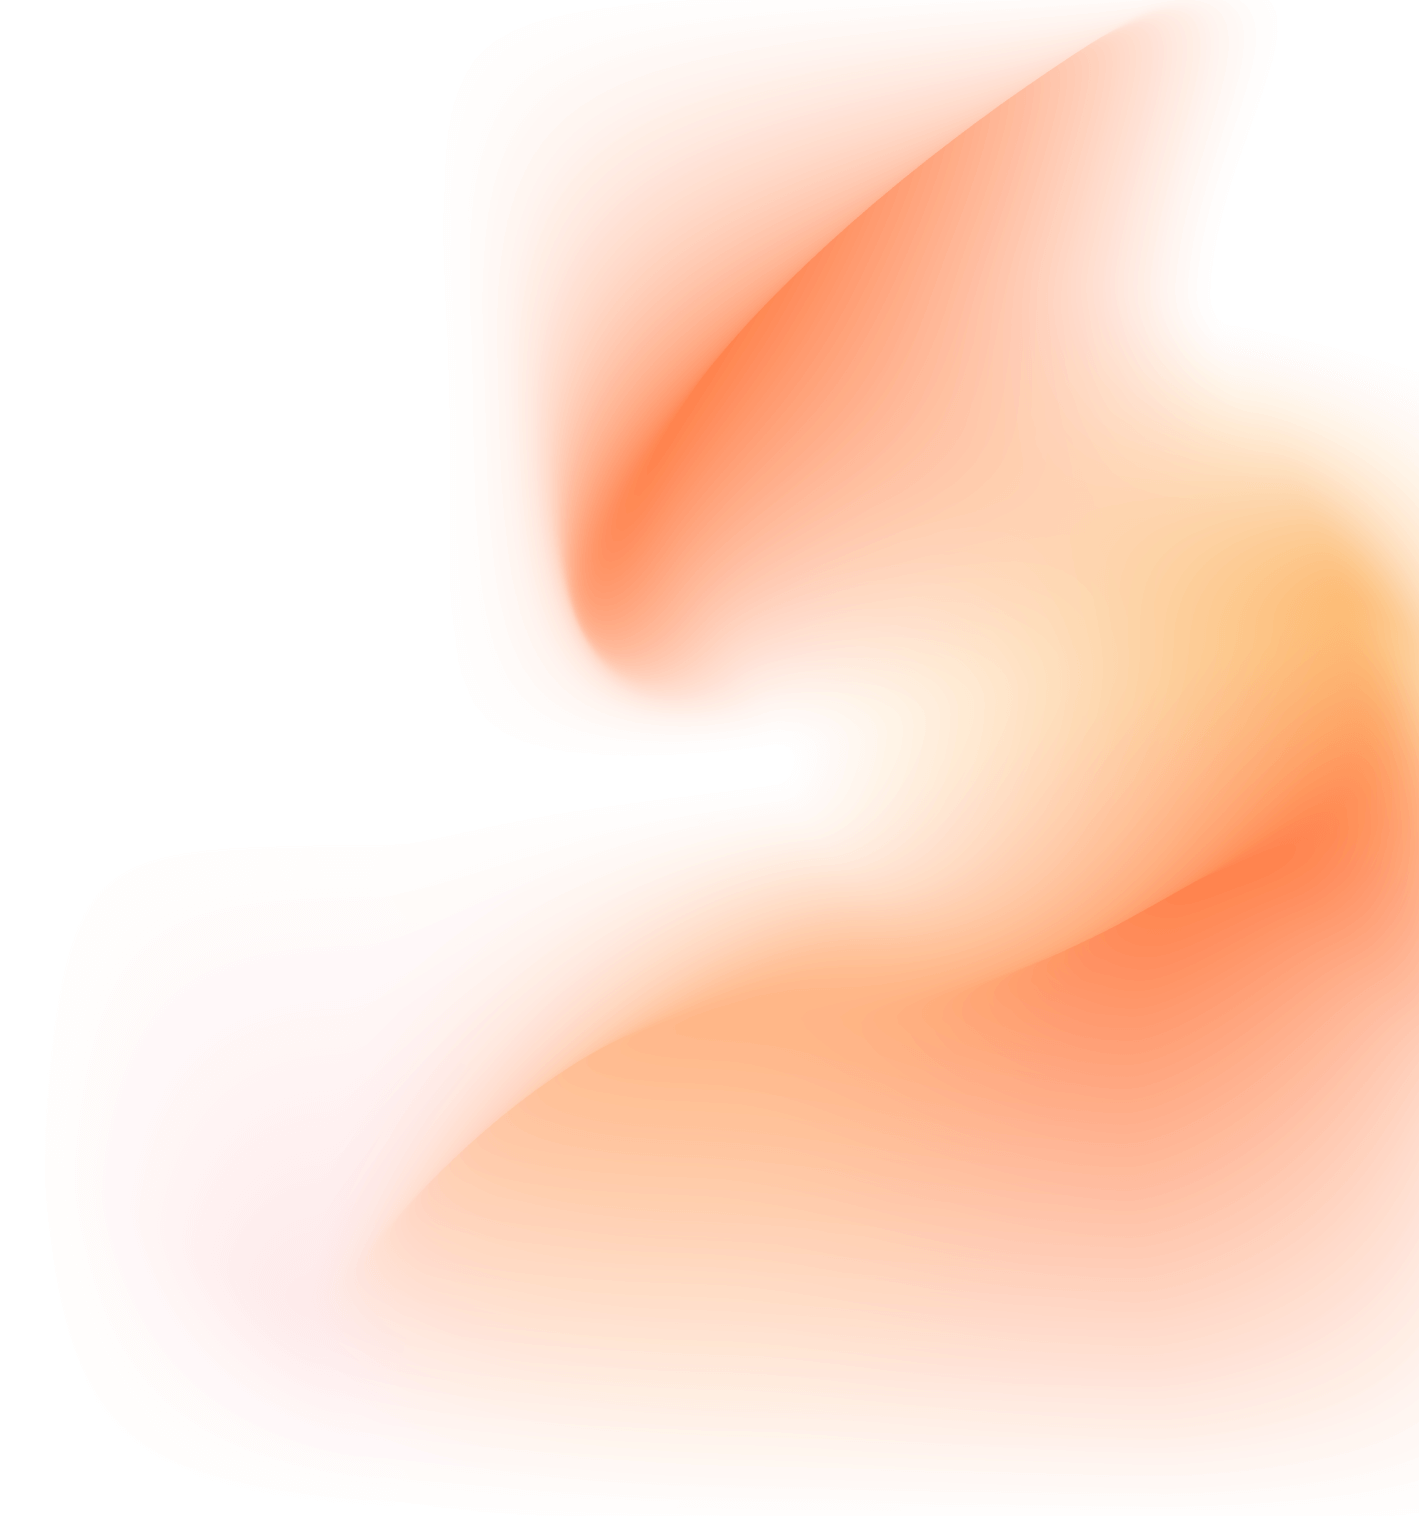
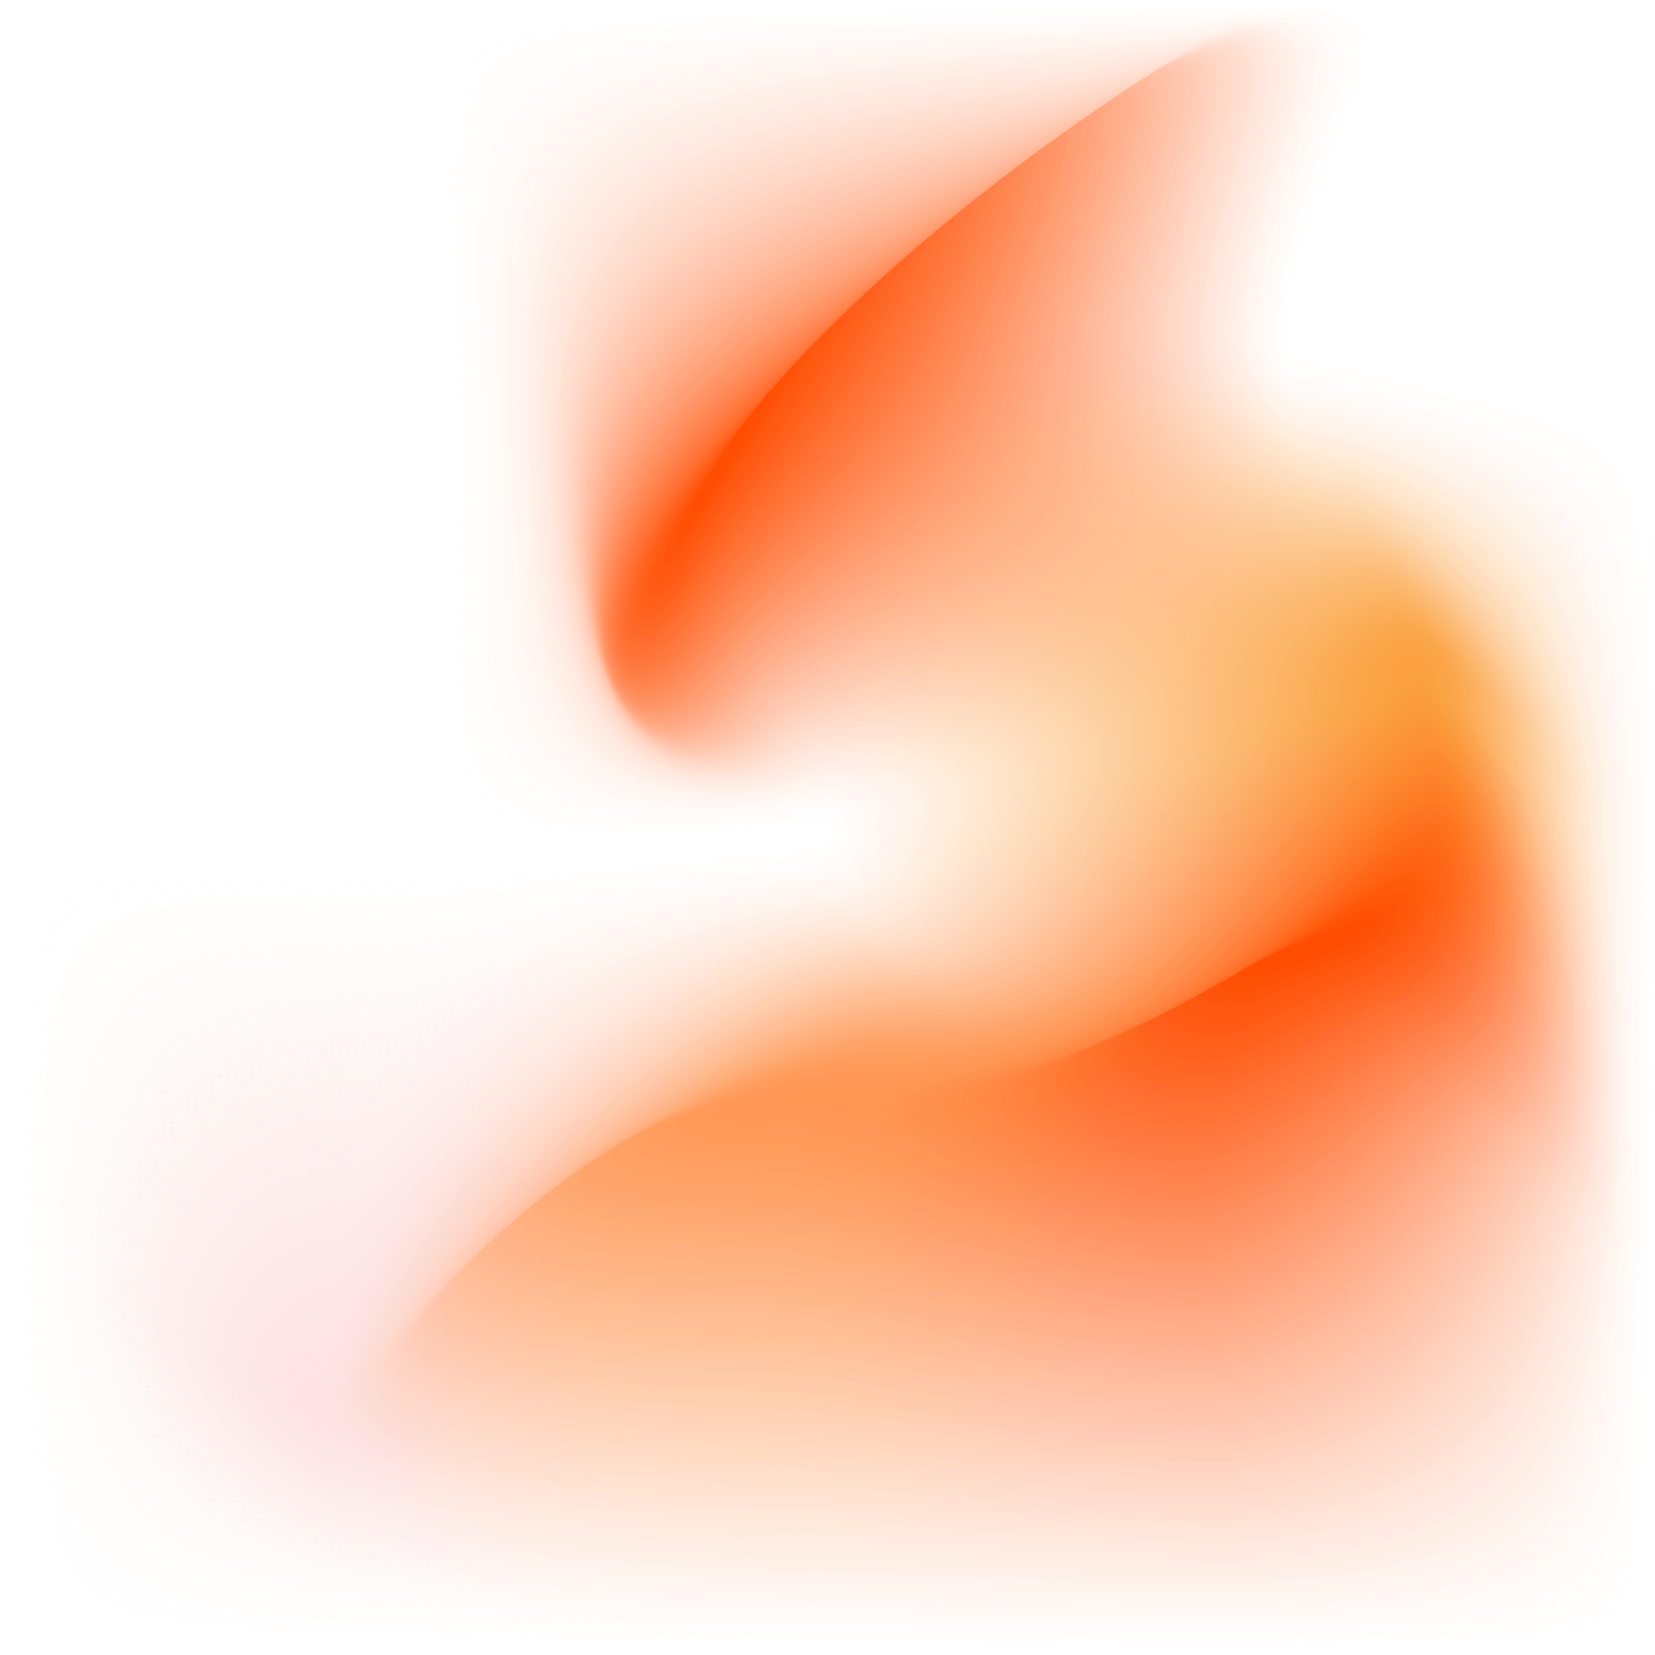
change gradient

diff --git a/src/app/page.module.css b/src/app/page.module.css
@@ -13,7 +13,38 @@
 	.home {
 		background: url("/assets/home/intro-desktop-gradient.png");
 		background-repeat: no-repeat;
+
+		background-position: -50px 0px;
+		background-size: 1225px 1225px;
+	}
+	/* .home {
+		background: url("/assets/home/intro-desktop-gradient.png");
+		background-repeat: no-repeat;
 		background-size: contain;
 		background-position: 250px 50px;
+		background-size: 1655px 1655px;
+	} */
+}
+@media screen and (min-width: 1020px) {
+	.home {
+		background: url("/assets/home/intro-desktop-gradient.png");
+		background-repeat: no-repeat;
+		background-size: contain;
+		background-position: 250px 50px;
+		background-size: 1655px 1655px;
+	}
+}
+@media screen and (min-width: 1280px) {
+	.home {
+		background: url("/assets/home/intro-desktop-gradient.png");
+		background-repeat: no-repeat;
+		background-size: cover;
+		background-position: 260px 0px;
+		background-size: 1655px 1655px;
+	}
+}
+@media screen and (min-width: 1580px) {
+	.home {
+		background-position: 24vw 0px;
 	}
 }

diff --git a/src/app/globals.css b/src/app/globals.css
@@ -18,6 +18,8 @@
 
 .layout {
 	padding-top: 60px;
+	max-width: 2048px;
+	margin: 0 auto;
 }
 /*
   1. Use a more-intuitive box-sizing model.
